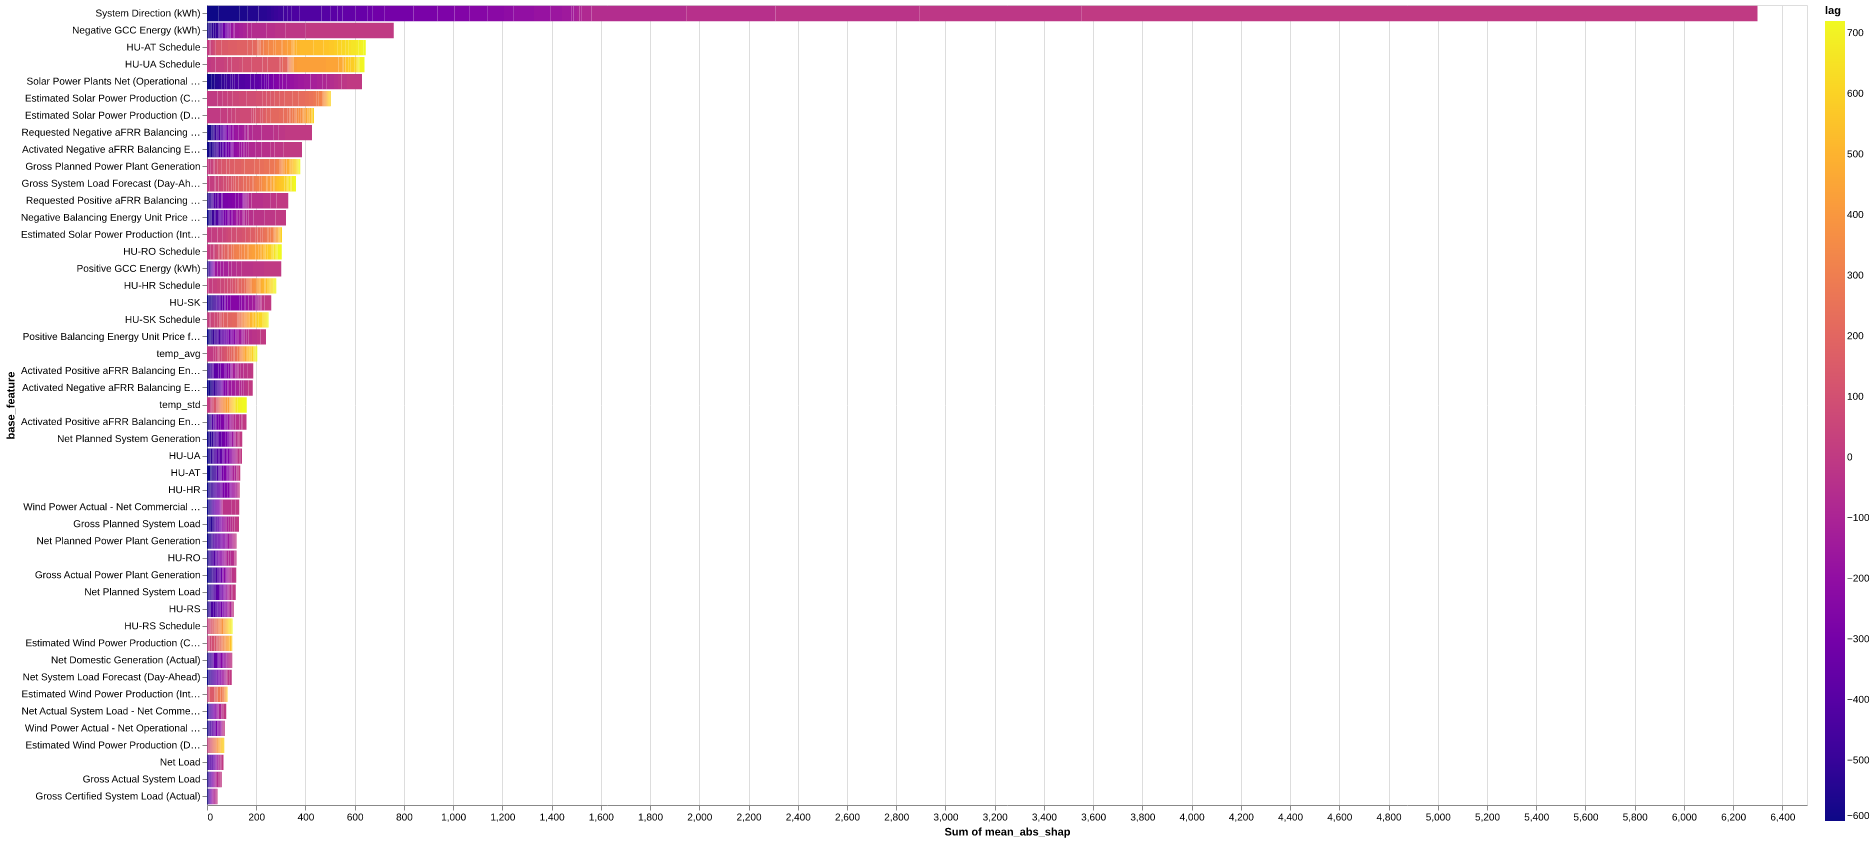
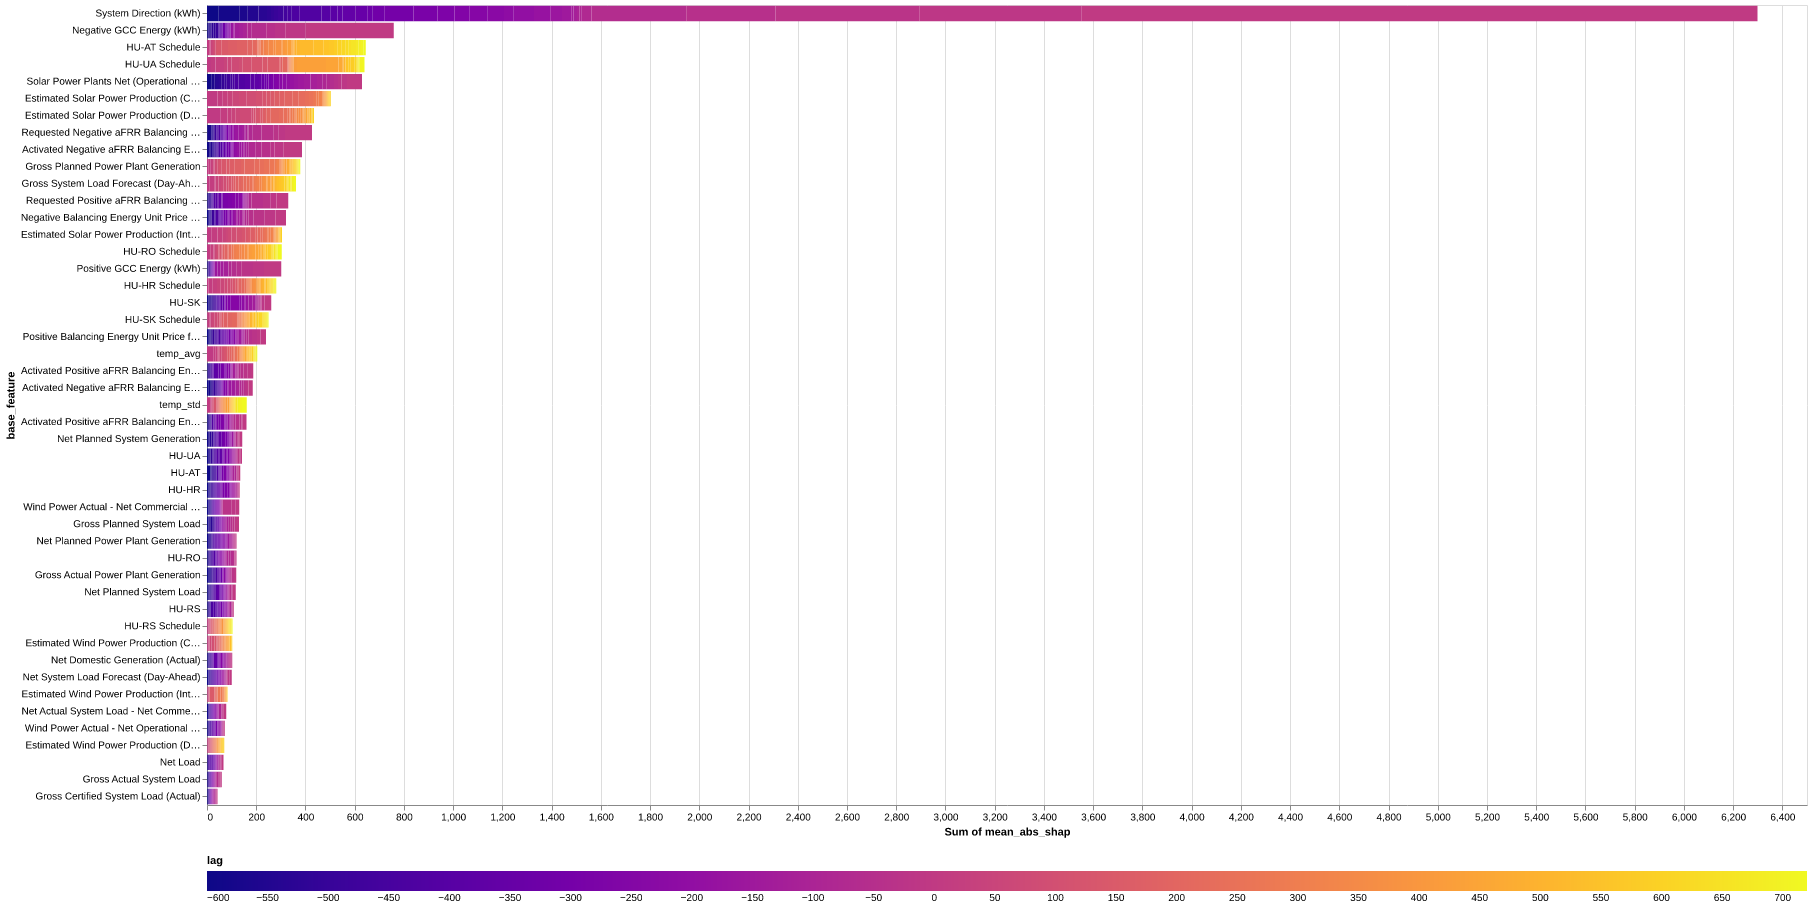
legend on bottom

Changed region(s): [[0.0, 0.0, 1.0, 1.0], [0.1854, 0.8646, 0.649, 0.9264], [0.7108, 0.8646, 0.8035, 0.9264]]

diff --git a/shap_aggregated_plots.py b/shap_aggregated_plots.py
@@ -41,7 +41,12 @@ def shap_agg_plot(df):
             )
         )
         .properties(width=1600, height=800)
-        .configure_legend(gradientLength=800, gradientThickness=20)
+        .configure_legend(
+            gradientLength=1600,
+            gradientThickness=20,
+            orient="bottom",
+            direction="horizontal",
+        )
     )
 
 
